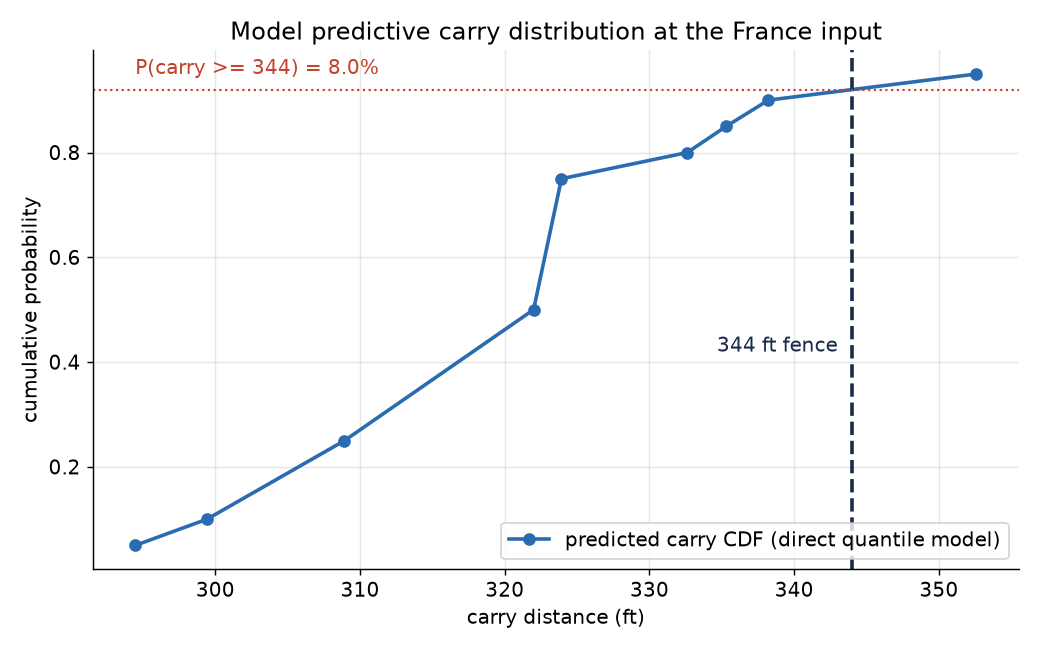
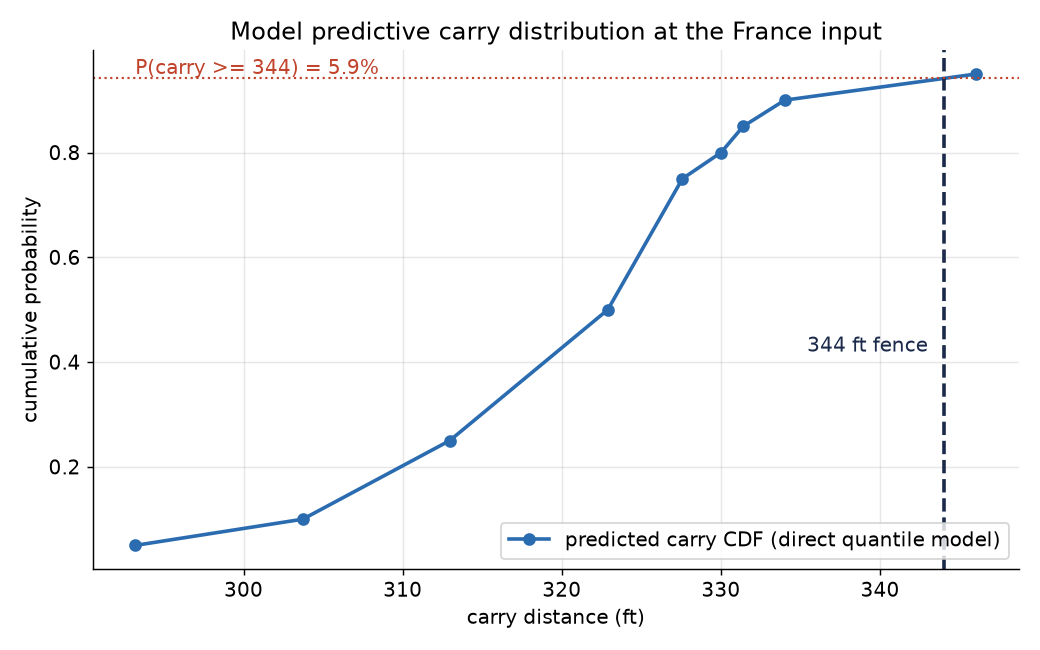
feat(ml): add air density and along-flight wind as model features
The LightGBM models now see the per-ball weather, not just the park proxy. France is predicted at the dome's real air density with no wind, which pulls its estimate below the all-conditions rate (the comparable balls that reached 344 were often helped by warm or thin air the closed roof lacked). air_density carries real feature importance; calibration stays at 89/80/50. Page and README updated.

diff --git a/frb/ml.py b/frb/ml.py
@@ -26,7 +26,7 @@ from scipy.interpolate import RegularGridInterpolator
 from . import config as C
 from . import physics as P
 
-FEATURES = ["launch_speed", "launch_angle", "spray_deg", "game_year", "home_team"]
+FEATURES = ["launch_speed", "launch_angle", "spray_deg", "air_density", "wind_along_mph", "game_year", "home_team"]
 CAT_FEATURES = ["home_team"]
 BAT_FEATURES = ["attack_angle", "swing_path_tilt", "bat_speed", "swing_length"]
 QUANTILES = [0.05, 0.1, 0.25, 0.5, 0.75, 0.8, 0.85, 0.9, 0.95]
@@ -59,13 +59,15 @@ def prep_model_frame(df: pd.DataFrame) -> pd.DataFrame:
     cols = list(dict.fromkeys(FEATURES + BAT_FEATURES + ["hit_distance_sc"]))
     cols = [c for c in cols if c in df.columns]
     out = df[cols].copy()
-    out = out.dropna(subset=["launch_speed", "launch_angle", "spray_deg", "hit_distance_sc", "home_team", "game_year"])
+    out = out.dropna(subset=["launch_speed", "launch_angle", "spray_deg", "air_density", "hit_distance_sc", "home_team", "game_year"])
+    if "wind_along_mph" in out.columns:
+        out["wind_along_mph"] = out["wind_along_mph"].fillna(0.0)
     out = out[out.hit_distance_sc.between(0, 520) & out.launch_angle.between(-90, 90) & out.spray_deg.between(-70, 70)]
     out["home_team"] = out["home_team"].astype("category")
     return out
 
 
-def france_row(park_categories, year: int = 2025) -> pd.DataFrame:
+def france_row(park_categories, year: int = 2026) -> pd.DataFrame:
     """One-row frame of the France inputs with a park-matched categorical."""
     row = pd.DataFrame(
         [
@@ -73,6 +75,9 @@ def france_row(park_categories, year: int = 2025) -> pd.DataFrame:
                 "launch_speed": C.FRANCE_EV,
                 "launch_angle": C.FRANCE_LA,
                 "spray_deg": C.FRANCE_SPRAY,
+                # The dome: still air at the closed-roof air density.
+                "air_density": float(P.rho(C.DOME_TEMP_F, C.DOME_ELEV_M, C.DOME_RH)),
+                "wind_along_mph": 0.0,
                 "game_year": year,
                 "home_team": C.FRANCE_PARK,
             }

diff --git a/README.md b/README.md
@@ -21,7 +21,7 @@ The ball most likely would not have gone out, but it was far from hopeless.
   ball's actual air density, independently agrees at 10.9%.
 - Across methods the raw number spans about 6 to 14%. The two most directly
   grounded estimators, the empirical pool (11.8%) and the physics model (10.9%),
-  land near 12%; the machine-learning models sit lower, around 5 to 7%.
+  land near 12%; the machine-learning models, which condition on the exact dome air, sit lower at around 5 to 8%.
 - That falls to roughly **5 to 7%** once you also require the ball to clear the
   8 ft wall while staying fair, rather than just reach the fence distance along
   the ground. The empirical estimate there is 6.6% (Wilson 4 to 10%).
@@ -138,11 +138,15 @@ LightGBM quantile regression (not deep learning, since this is low-dimensional
 tabular data), built two ways:
 
 - **Direct**: predict the carry distribution from exit velocity, launch angle,
-  spray angle, season, and park, fitting several quantiles to get a predictive
-  distribution.
+  spray angle, air density, along-flight wind, season, and park, fitting several
+  quantiles to get a predictive distribution. The weather features mean this is
+  the one method that sees the exact conditions: France is predicted at the
+  dome's real air density with no wind, which pulls its estimate below the
+  all-conditions rate (the comparable balls that reached 344 were often helped
+  by warm or thin air the closed roof did not have).
 - **Physics-informed residual**: predict the residual between measured carry and
   the physics-model carry, then add it back. This anchors the model in physics
-  and lets the trees learn the park, spray, and era corrections.
+  and lets the trees learn the park, spray, era, and conditions corrections.
 
 A 2024+ variant adds the bat-tracking fields (attack angle, swing path tilt, bat
 speed, swing length) as a partial spin proxy. All models are checked for
@@ -193,9 +197,9 @@ empirical counts.
 | Method 1 empirical (2015-2026 pool, n=279) | 319 | 11.8% [8.5, 16.1] | 8.6% [5.8, 12.5] | 8.6% [5.8, 12.5] | 6.5% [4.1, 10.0] |
 | Method 1 kernel (sigma 1.5) | 320 | 14.2% | | | |
 | Method 2 physics (sensitivity MC) | 318 | 10.9% | 8.1% | 7.5% | 5.9% |
-| Method 3 ML direct | 322 | 8.0% | 6.8% | 6.5% | 5.3% |
-| Method 3 ML physics-residual | 319 | 6.1% | 5.0% | 5.0% | 5.0% |
-| Method 3 ML + bat-tracking (2024+) | 317 | 7.4% | 6.5% | 6.3% | 5.3% |
+| Method 3 ML direct | 323 | 5.9% | 5.0% | 5.0% | 5.0% |
+| Method 3 ML physics-residual | 322 | 5.0% | 5.0% | 5.0% | 5.0% |
+| Method 3 ML + bat-tracking (2024+) | 316 | 8.4% | 7.5% | 7.3% | 6.4% |
 
 The physics central carry (318 ft) is the dome point estimate; its four
 probabilities come from the temperature-and-spin Monte Carlo sweep.

diff --git a/outputs/results_table.md b/outputs/results_table.md
@@ -10,6 +10,6 @@ the 8 ft wall when it arrives. The France ball's measured spray
 | Method 1 empirical (2015-2026 pool, n=279) | 319 | 11.8% [8.5, 16.1] | 8.6% [5.8, 12.5] | 8.6% [5.8, 12.5] | 6.5% [4.1, 10.0] |
 | Method 1 kernel (sigma 1.5) | 320 | 14.2% |  |  |  |
 | Method 2 physics (sensitivity MC) | 318 | 10.9% | 8.1% | 7.5% | 5.9% |
-| Method 3 ML direct | 322 | 8.0% | 6.8% | 6.5% | 5.3% |
-| Method 3 ML physics-residual | 319 | 6.1% | 5.0% | 5.0% | 5.0% |
-| Method 3 ML + bat-tracking (2024+) | 317 | 7.4% | 6.5% | 6.3% | 5.3% |
+| Method 3 ML direct | 323 | 5.9% | 5.0% | 5.0% | 5.0% |
+| Method 3 ML physics-residual | 322 | 5.0% | 5.0% | 5.0% | 5.0% |
+| Method 3 ML + bat-tracking (2024+) | 316 | 8.4% | 7.5% | 7.3% | 6.4% |
